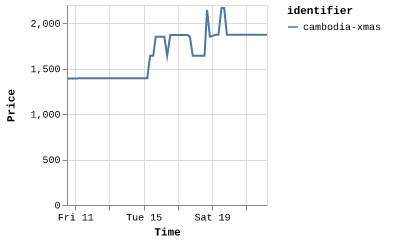
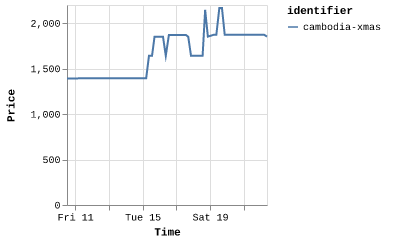
Latest scraping flights: Tue Jul 22 08:57:49 UTC 2025

Changed region(s): [[0.3495, 0.0289, 0.5534, 0.9256], [0.5825, 0.0289, 0.6117, 0.8678], [0.2913, 0.8678, 0.4078, 0.9256]]

diff --git a/scrapes/flights/cambodia-xmas.md b/scrapes/flights/cambodia-xmas.md
@@ -1,1 +1,1 @@
-€1,872
+€1,852
